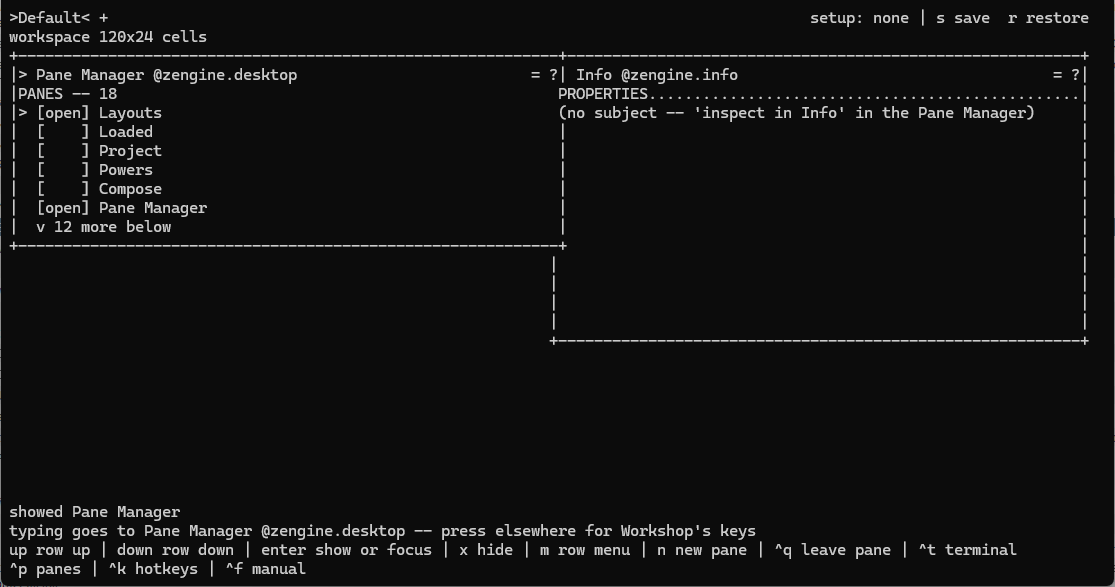
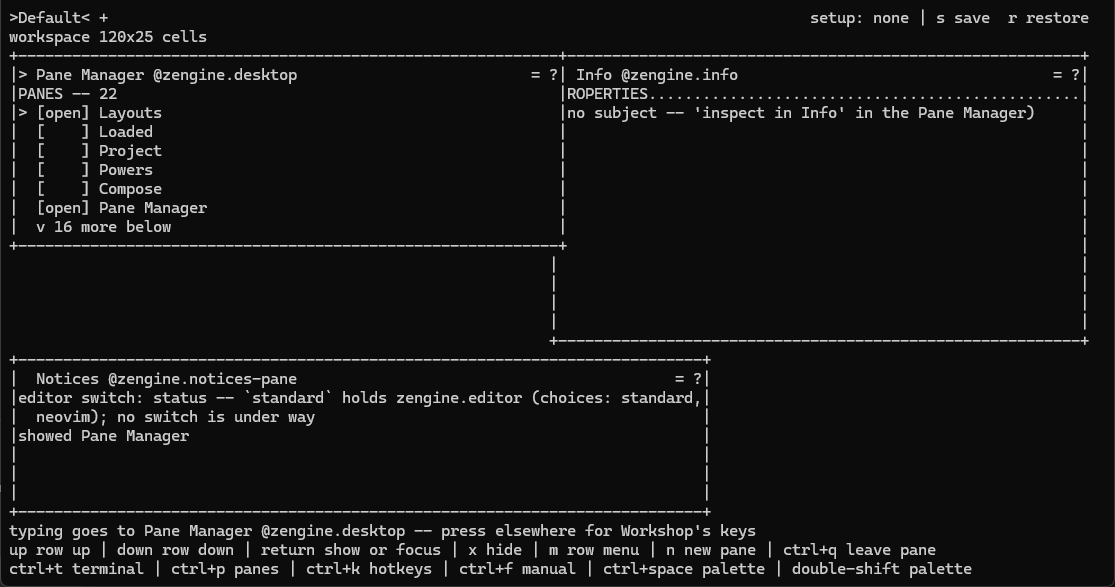
Getting started shows the quick setup and Start here, and its three desk pictures are taken again with today's band and the Notices pane

diff --git a/workshop/docs/getting-started.md b/workshop/docs/getting-started.md
@@ -201,13 +201,17 @@ and opens **Start here**, the story a step at a time, each box ticked as it happ
 start until you finish it; find either again in the Pane Manager as Quick setup and Start here
 ([their manual](zengine.first-run.md)).
 
+![The quick setup at a first start, holding the keys: Edit text with Neovim, each ready-to-use setup the launcher lists with Start, The story, Done and Skip](images/first-run-quick-setup.png)
+
+![Start here at a later start, seated beside the desk without the keys: steps 1 and 4 done by their owners' word, step 2 ticked by you, 3 and 5 still to do, each with Show me](images/first-run-start-here.png)
+
 **A fresh Workshop opens onto your desk**: the Layouts row, Info at the right, and the room.
 The Layouts row says `>Default< +` beside `setup: none` — the one layout you have, marked as the
 one you are on, related to no Setup file yet. `none` is not a warning: Workshop remembers that
 layout for you either way. Nothing is painted behind the panes, and the band's first row says
 how to open one: `ctrl+t terminal | ctrl+p panes | ctrl+k hotkeys`.
 
-![A fresh Workshop at its smallest window: the Layouts row, Info at the right, nothing behind them, and the band leading with the keys that open a pane](images/desk-fresh.png)
+![A fresh Workshop at its smallest window: the Layouts row, Info at the right, Notices over the room's lower left, and the band leading with the keys that open a pane](images/desk-fresh.png)
 
 1. **<!-- key desktop.panes -->`ctrl+p`<!-- /key -->** — the **Pane Manager**: every pane there is,
    open or not. `↑` `↓` choose, `Enter` shows one and puts you in it — a pane that is already
@@ -288,9 +292,9 @@ privilege the [snake example](../../examples/snake/README.md) does not.
 | colour | each area painted by its skin's painter, the role's ink on the terminal | each area painted by its skin's painter, RGB per role |
 | what needs attention | the Attention pane, where you put it | the Attention pane, where you put it |
 
-![The Pane Manager and Info in the terminal window, 120 by 30 cells: the Layouts row on the first row, the frames drawn in characters](images/desk-terminal-window.png)
+![The Pane Manager, Info and Notices in the terminal window, 120 by 30 cells: the Layouts row on the first row, the frames drawn in characters, the band's keys beneath](images/desk-terminal-window.png)
 
-![The Pane Manager and Info in the OS window, 1444 by 901 pixels: text in the window's face, each pane on its own ground, each area painted by its skin's painter](images/desk-os-window.png)
+![The Pane Manager, Info and Notices in the OS window, 1444 by 901 pixels: text in the window's face, each pane on its own ground, each area painted by its skin's painter](images/desk-os-window.png)
 
 Neither is a degraded version of the other, and the same published intent produces both.
 
